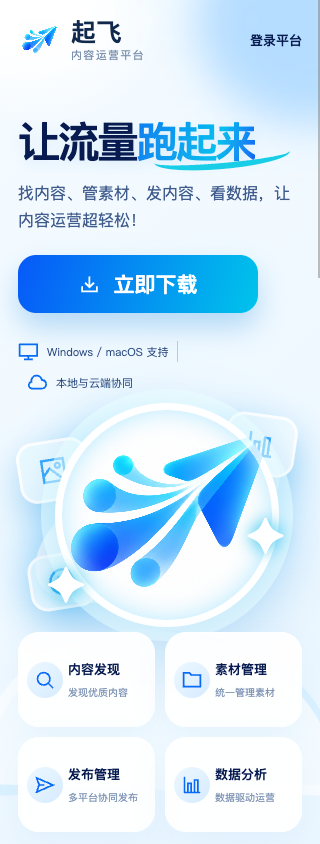
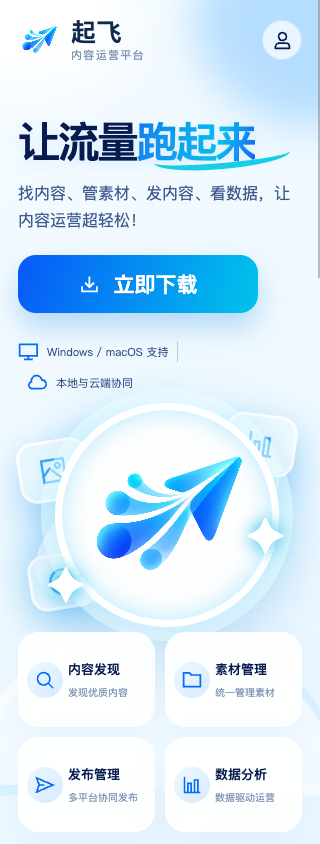
docs: record CHG 078 emblem spacing verification

Changed region(s): [[0.2188, 0.4929, 0.8125, 0.7085], [0.7812, 0.0, 0.9375, 0.0924]]

diff --git a/delivery/active/CHG-20261010-078/checkpoint.md b/delivery/active/CHG-20261010-078/checkpoint.md
@@ -1,7 +1,7 @@
 # CHG-20261010-078 Checkpoint
 
 - 已完成：Task 1 脚本与初始清单；Task 2 Cloud `/home` 与三平台按钮；Task 3 共享登录页及品牌视觉，宽屏与 390 px 无头浏览器截图已留证。
-- 当前工作：首页文案与手机布局再次校准，状态仍为 VERIFYING；等待新 Cloud Web 部署后的 `/home`、真实账号登录与目标用户网络三平台下载验收。
+- 当前工作：首页和登录页圆形徽章内图形留白已校准；手机首页顶部改为图标登录入口，页脚移除「登录平台」文字。状态仍为 VERIFYING；等待新 Cloud Web 部署后的 `/home`、真实账号登录与目标用户网络三平台下载验收。
 - 下一步：部署后执行固定 Tag 清单更新命令，回读在线 JSON，逐个平台点击下载；收到结果后关闭 CHG。
 - 阻塞：无代码阻塞。在线部署和终端网络验收依赖目标环境人工执行。
-- 最近验证：本轮 Cloud Web 构建通过；1672×941、390×844、320×844 视口截图与 390 px 全页截图已留证，390/320 px 文档宽度分别等于视口宽度，功能卡标题与副文案均可见。先前 Web 全量 490 项、Desktop 构建、Go 静态测试、下载脚本 4 项和 GitHub 清单核对仍有效；本机对 GitHub 资产直连 HEAD 曾超时，尚不代表用户网络不可下载。
+- 最近验证：本轮 Cloud 与 Desktop Web 构建通过；更新 1440×900 登录页、390×844 和 320×844 首页以及 390 px 全页截图。390/320 px 文档宽度分别等于视口宽度；手机页脚登录文字计算样式为 `display:none`，顶部登录链接只有图标且保留无障碍名称。先前 Web 全量 490 项、Go 静态测试、下载脚本 4 项和 GitHub 清单核对仍有效；本机对 GitHub 资产直连 HEAD 曾超时，尚不代表用户网络不可下载。

diff --git a/delivery/active/CHG-20261010-078/status/cloud.md b/delivery/active/CHG-20261010-078/status/cloud.md
@@ -1,6 +1,6 @@
 # Cloud 状态
 
 - 分支：`codex/public-home-downloads`。
-- 已提交：`aedd398` 公开官网和下载清单；`a2c8f72` 共享登录视觉；`dcb3983` 按用户官网参考图校准视觉；`7c725c3` 首页文案与手机布局修正。
-- 验证：本轮删除首页中部小标题和「轻量易用」，顶部导航放大至 21 px，首页左上 Logo 图形缩小并留白；手机端恢复功能卡副文案和第二项支持说明，缩短插画区。本轮 Cloud Web 构建通过，1672/390/320 px 浏览器截图已更新，390/320 px 无水平滚动。先前 Web 52 个文件、490 项测试、Desktop Web 构建与 Go Cloud 静态服务聚焦测试通过。
+- 已提交：`aedd398` 公开官网和下载清单；`a2c8f72` 共享登录视觉；`dcb3983` 按用户官网参考图校准视觉；`7c725c3` 首页文案与手机布局修正；`0ec44a4` 圆形徽章留白与手机登录文字校准。
+- 验证：本轮首页和登录页圆形徽章的背景图从 150% 缩至 110%，图标与圆圈留白；手机首页顶部登录入口只保留图标和无障碍名称，页脚登录文字隐藏。Cloud 与 Desktop Web 构建通过，1440 px 登录和 390/320 px 首页截图已更新，390/320 px 无水平滚动。先前 Web 52 个文件、490 项测试与 Go Cloud 静态服务聚焦测试通过。
 - 待验收：新版本部署后 `/home`、真实账号登录、三平台安装包在目标用户网络的实际下载。

diff --git a/delivery/active/CHG-20261010-078/evidence/emblem-spacing-and-mobile-login.md b/delivery/active/CHG-20261010-078/evidence/emblem-spacing-and-mobile-login.md
@@ -1,0 +1,9 @@
+# 圆形徽章与手机登录文案校准
+
+- 用户标注：首页手机主视觉及登录页中部图标贴近或超出圆圈；手机首页顶部和页脚不显示「登录平台」文字。
+- 代码改动：首页 `.hero-emblem` 和登录页 `.story-emblem` 的背景图缩放从 150% 调整为 110%，保留圆形边界与图形之间的空白。手机首页顶部改为只有用户图标的登录链接，保留 `aria-label="登录平台"`；手机页脚隐藏文字登录链接。
+- Cloud 提交：`0ec44a4`。
+- 命令：`npm run build:cloud` 与 `npm run build:desktop`，均退出码 0；`git diff --check` 退出码 0。
+- 浏览器验证：Chrome DevTools 390×844 与 320×844 首页截图，1440×900 登录截图；圆形徽章计算背景尺寸为 `110% auto`。手机顶部登录链接可见、文字为空、无障碍名称为「登录平台」；页脚文字链接计算样式为 `display:none`。390/320 px 文档宽度与视口宽度相同。
+- 截图：`screenshots/wt-home-mobile-cdp.png`、`screenshots/wt-home-mobile-320.png`、`screenshots/wt-home-mobile-full.png`、`screenshots/wt-login-wide.png`。
+- 边界：这是本地页面和构建验证；线上部署与真实账号登录仍待验收。
